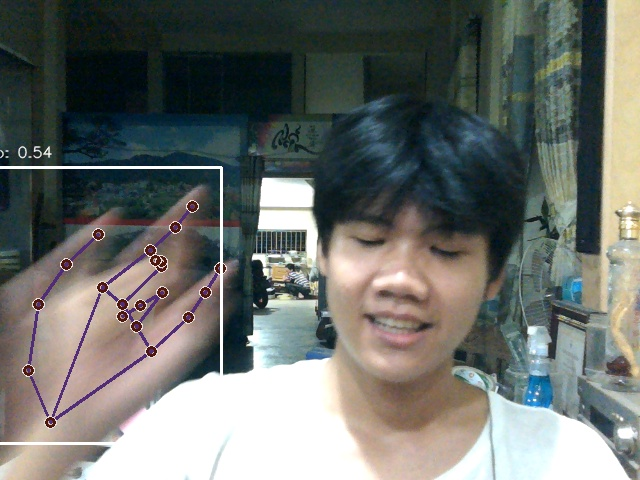
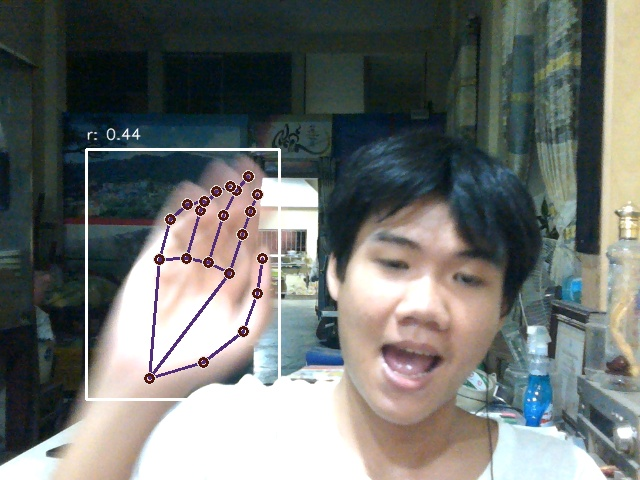
hi

diff --git a/mainlstm.py b/mainlstm.py
@@ -221,7 +221,7 @@ class Ham_Camera(QThread):
                     image1.flags.writeable = False
                     results1 = holistic.process(image1)
                     image1.flags.writeable = True
-                    
+                    cv2.imwrite('shared_frame.jpg', image1)
                     image2 = cv2.cvtColor(frame2, cv2.COLOR_BGR2RGB)
                     image2.flags.writeable = False
                     results2 = holistic.process(image2)
@@ -259,8 +259,8 @@ class Ham_Camera(QThread):
                                 self.luongString1.emit(self.string)
                                 self.checkTrung = body_language_class1
                         # image1 = cv2.cvtColor(frame1, cv2.COLOR_BGR2RGB)
-                        image1_rgb = cv2.cvtColor(image1, cv2.COLOR_BGR2RGB)
-                        cv2.imwrite('shared_frame.jpg', image1_rgb)
+                        # image1_rgb = cv2.cvtColor(image1, cv2.COLOR_BGR2RGB)
+                        
 
                         rh2 = results2.right_hand_landmarks.landmark
                         rh_row2 = list(np.array([[landmark.x, landmark.y, landmark.z] for landmark in rh2]).flatten())
@@ -273,17 +273,16 @@ class Ham_Camera(QThread):
                             cv2.rectangle(image2, bbox2[0], bbox2[1], (255, 255, 255), 2)
                             class_name2 = body_language_class2.split(' ')[0]
                             prob_text2 = f'{class_name2}: {round(body_language_prob2[np.argmax(body_language_prob2)], 2)}'
-                            cv2.putText(image2, prob_text2, (bbox2[0][0], bbox2[0][1] - 10),
-                                        cv2.FONT_HERSHEY_SIMPLEX, 0.5, (255, 255, 255), 1, cv2.LINE_AA)           
-                        # if body_language_prob2[np.argmax(body_language_prob2)] >= 0.85 and body_language_class2 != self.checkTrung2:
-                        #     if body_language_class2 == "space":
-                        #         self.string2 += " "
-                        #         self.luongString2.emit(self.string2)
-                        #         self.checkTrung2 = body_language_class2
-                        #     else:
-                        #         self.string2 += body_language_class2
-                        #         self.luongString2.emit(self.string2)
-                        #         self.checkTrung2 = body_language_class2
+                            cv2.putText(image2, prob_text2, (bbox2[0][0], bbox2[0][1] - 10),cv2.FONT_HERSHEY_SIMPLEX, 0.5, (255, 255, 255), 1, cv2.LINE_AA)
+                        if body_language_prob2[np.argmax(body_language_prob2)] >= 0.85 and body_language_class2 != self.checkTrung2:
+                            if body_language_class2 == "space":
+                                self.string2 += " "
+                                self.luongString2.emit(self.string2)
+                                self.checkTrung2 = body_language_class2
+                            else:
+                                self.string2 += body_language_class2
+                                self.luongString2.emit(self.string2)
+                                self.checkTrung2 = body_language_class2
                     except:
                         pass
                     h, w, ch = image1.shape
